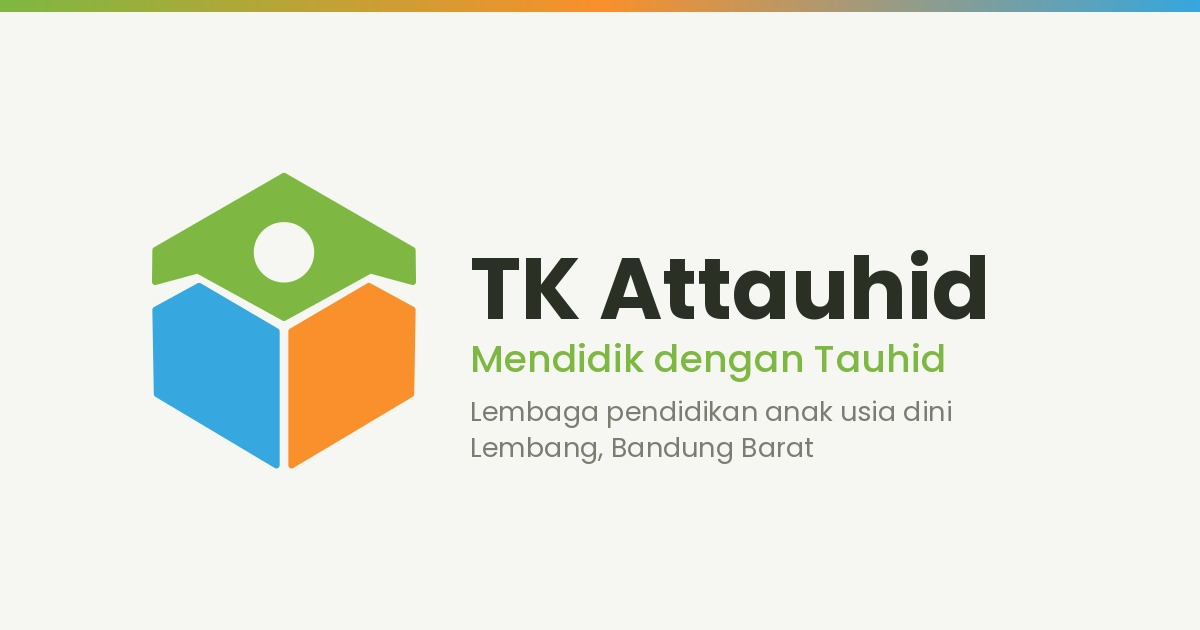
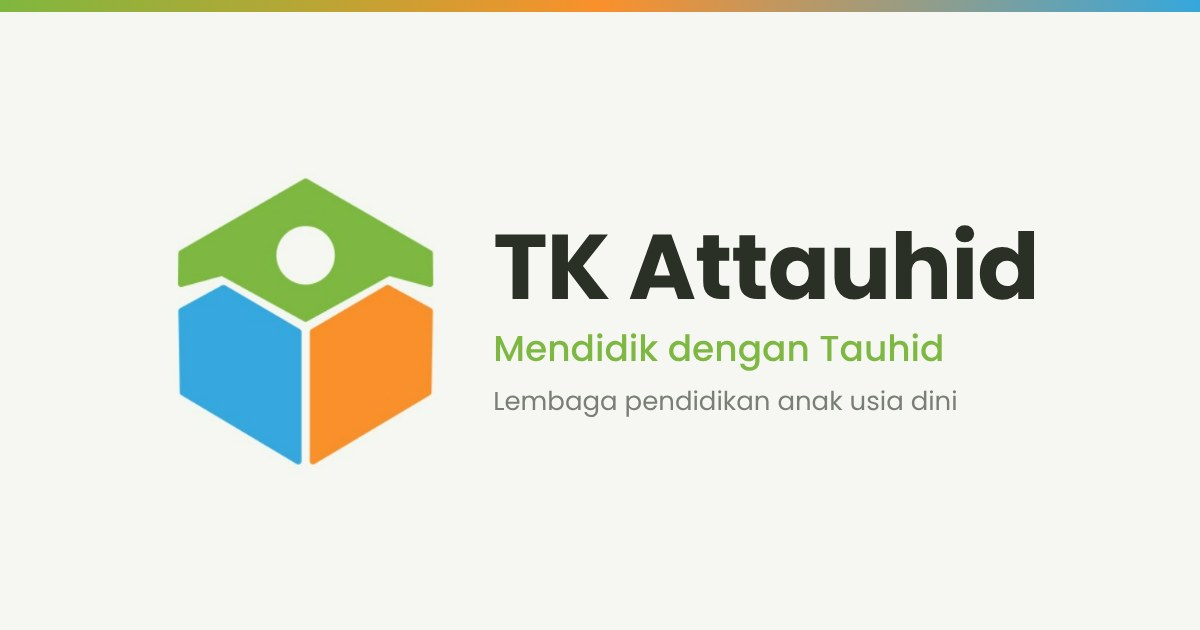
Perbarui og-image dan meta pratinjau link

Changed region(s): [[0.1233, 0.2714, 0.8633, 0.754]]

diff --git a/resources/views/app.blade.php b/resources/views/app.blade.php
@@ -82,13 +82,18 @@
         {{-- ?v= WAJIB dinaikkan tiap kali gambarnya diganti. WhatsApp menyimpan
              pratinjau di servernya sendiri dan tidak akan mengambil ulang kalau
              URL-nya sama persis. --}}
-        <meta property="og:image" content="{{ asset('og-image.jpg') }}?v=4">
+        <meta property="og:image" content="{{ asset('og-image.jpg') }}?v=5">
+        <meta property="og:image:secure_url" content="{{ asset('og-image.jpg') }}?v=5">
         <meta property="og:image:type" content="image/jpeg">
         <meta property="og:image:width" content="1200">
         <meta property="og:image:height" content="630">
+        <meta property="og:image:alt" content="Logo TK Attauhid — Mendidik dengan Tauhid">
         <meta property="og:locale" content="id_ID">
 
         <meta name="twitter:card" content="summary_large_image">
+        <meta name="twitter:title" content="TK Attauhid — Mendidik dengan Tauhid">
+        <meta name="twitter:description" content="Lembaga pendidikan anak usia dini di Lembang, Bandung Barat.">
+        <meta name="twitter:image" content="{{ asset('og-image.jpg') }}?v=5">
 
         {{-- React + Inertia entry --}}
         @viteReactRefresh
